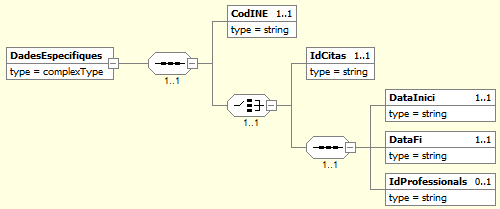
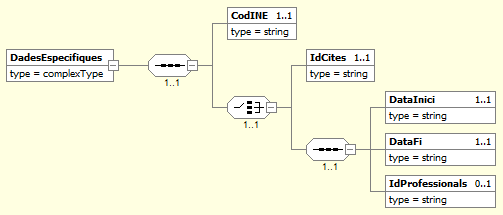
Se corrige parámetro de entrada.

Changed region(s): [[0.0, 0.0, 1.0, 1.0], [0.33, 0.3445, 0.36, 0.4019]]

diff --git a/HestiaPRE/ConsultaCites.md b/HestiaPRE/ConsultaCites.md
@@ -2,13 +2,13 @@
 
 El servei **Hèstia** disposa d'un mòdul encarregat de gestionar l'agenda dels seus professionals. A través d'aquest mòdul és possible registrar cites entre els usuaris dels serveis socials i els professionals que els presten servei. Aquest connector ens permet obtenir les dades d'una o diverses cites donades d'alta en el sistema.
 
-Existeixen dues maneres de realitzar la consulta, en els dos casos és obligatori indicar del codi INE de l'ABSS (`CodINE`). El primer mètode de consulta consisteix a indicar una llista d'identificadors interns de l’**Hèstia** d'una o més cites (`IdCitas`). Aquest mètode ens serà d'utilitat per a actualitzar la informació de les cites que han estat localitzades amb anterioritat a través del segon mètode de consulta. El límit màxim que es pot sol·licitar en una única petició és de 100 cites.
+Existeixen dues maneres de realitzar la consulta, en els dos casos és obligatori indicar del codi INE de l'ABSS (`CodINE`). El primer mètode de consulta consisteix a indicar una llista d'identificadors interns de l’**Hèstia** d'una o més cites (`IdCites`). Aquest mètode ens serà d'utilitat per a actualitzar la informació de les cites que han estat localitzades amb anterioritat a través del segon mètode de consulta. El límit màxim que es pot sol·licitar en una única petició és de 100 cites.
 
 El segon mètode de consulta, és una cerca en l'agenda mitjançant en un rang de dates. Haurem d'indicar el paràmetre de data d'inici (`DataInici`) i el paràmetre de data de fi (`DataFi`). Com a màxim es permet sol·licitar les cites registrades en un rang de set dies. En el cas que vulguem limitar la cerca, tenim un paràmetre addicional (`IdProfessionals`) on podem indicar una llista de professionals per a restringir la nostra cerca. Com en la llista anterior, el límit màxim de professionals a filtrar no ha de ser superior a 100.
 
 En cas d’indicar més d’un paràmetre, el connector farà la següent priorització:
 
-1.	Si s'especifica una llista de cites  (`IdCitas`), el connector ignorarà la resta dels paràmetres indicats i únicament retornarà les cites localitzades a partir del seu identificador intern dins l’**Hèstia**.
+1.	Si s'especifica una llista de cites  (`IdCites`), el connector ignorarà la resta dels paràmetres indicats i únicament retornarà les cites localitzades a partir del seu identificador intern dins l’**Hèstia**.
 2.	Si no s'indica una llista de cites, el connector retornarà totes cites registrades en l'agenda compreses entre la data d'inici (`DataInici`) i la data de fi (`DataFi`). En el cas que s'indiqui una llista d'identificadors interns de professionals (`IdProfessionals`), només es retornaran les cites del rang indicat que incloguin a algun d'aquests professionals com a assistents.
 
 Si no s’indica cap dels paràmetres, el connector retornarà un codi d’error. S'ha de tenir en compte que actualment només es permet la consulta de les cites de la pròpia ABSS que realitza la petició.
@@ -26,7 +26,7 @@ La missatgeria específica de la petició *HESTIA_CITES* es troba definida al do
 | Element                               | Descripció                                                   |
 | ------------------------------------- | :----------------------------------------------------------- |
 | DadesEspecifiques/**CodINE**          | Codi de l'Àrea Bàsica de Serveis Socials                     |
-| DadesEspecifiques/**IdCitas**         | Llista d'Identificadors interns de les cites dins l’**Hèstia**. Aquest és el paràmetre que recomanem utilitzar sempre que sigui possible (especialment per consultes futures sobre una mateixa cita) |
+| DadesEspecifiques/**IdCites**         | Llista d'Identificadors interns de les cites dins l’**Hèstia**. Aquest és el paràmetre que recomanem utilitzar sempre que sigui possible (especialment per consultes futures sobre una mateixa cita) |
 | DadesEspecifiques/**DataInici**       | Data inicial per a realitzar la consulta sobre les cites dins de l'agenda. El rang de dies permès no ha de superar els set dies |
 | DadesEspecifiques/**DataFi**          | Data final per a realitzar la consulta sobre les cites dins de l'agenda. El rang de dies permès no ha de superar els set dies |
 | DadesEspecifiques/**IdProfessionals** | Llista d'identificadors interns del professional dins l’**Hèstia**. Aquest paràmetre és opcional i en el cas d'aparèixer fita la cerca als professionals subministrats |
